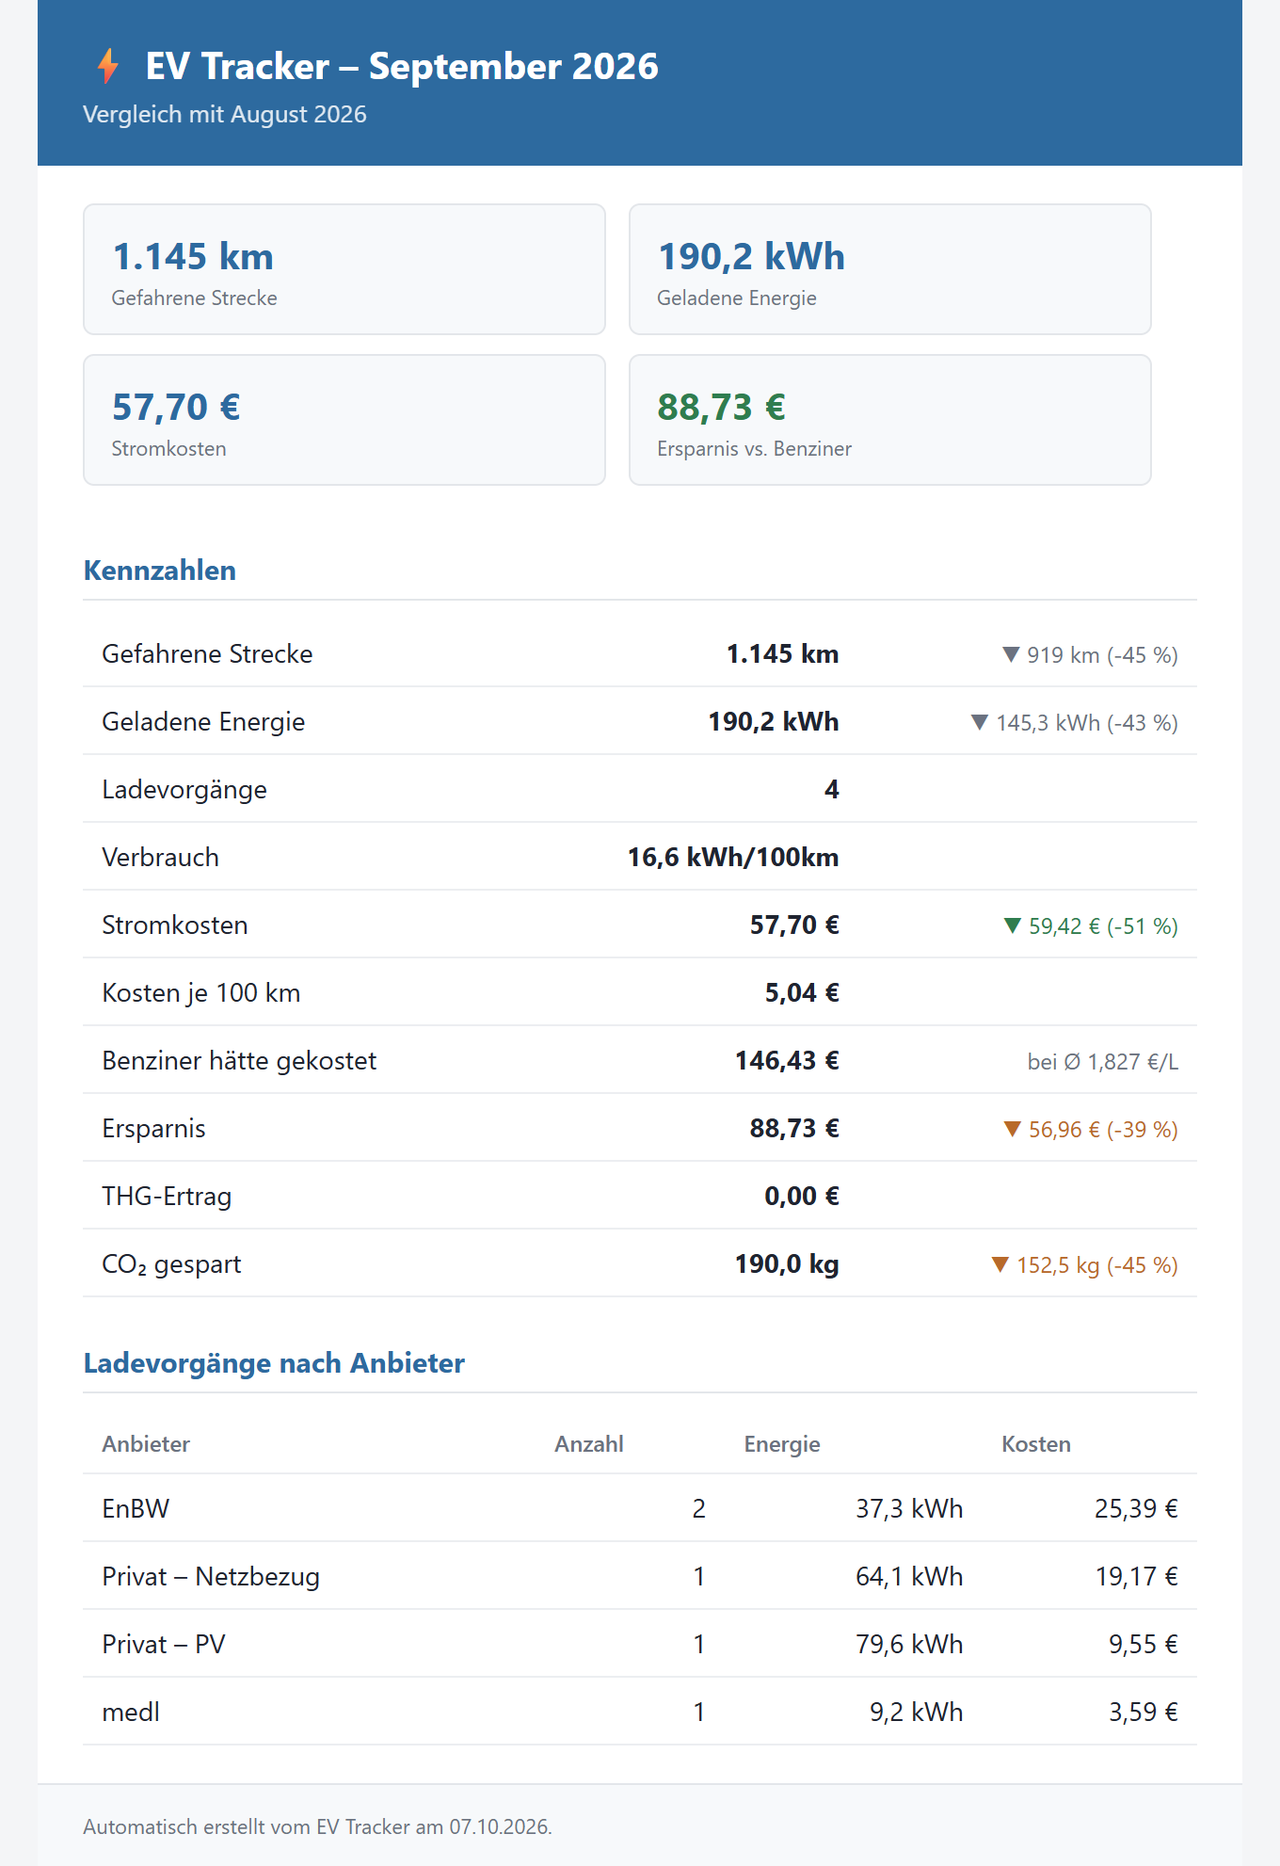
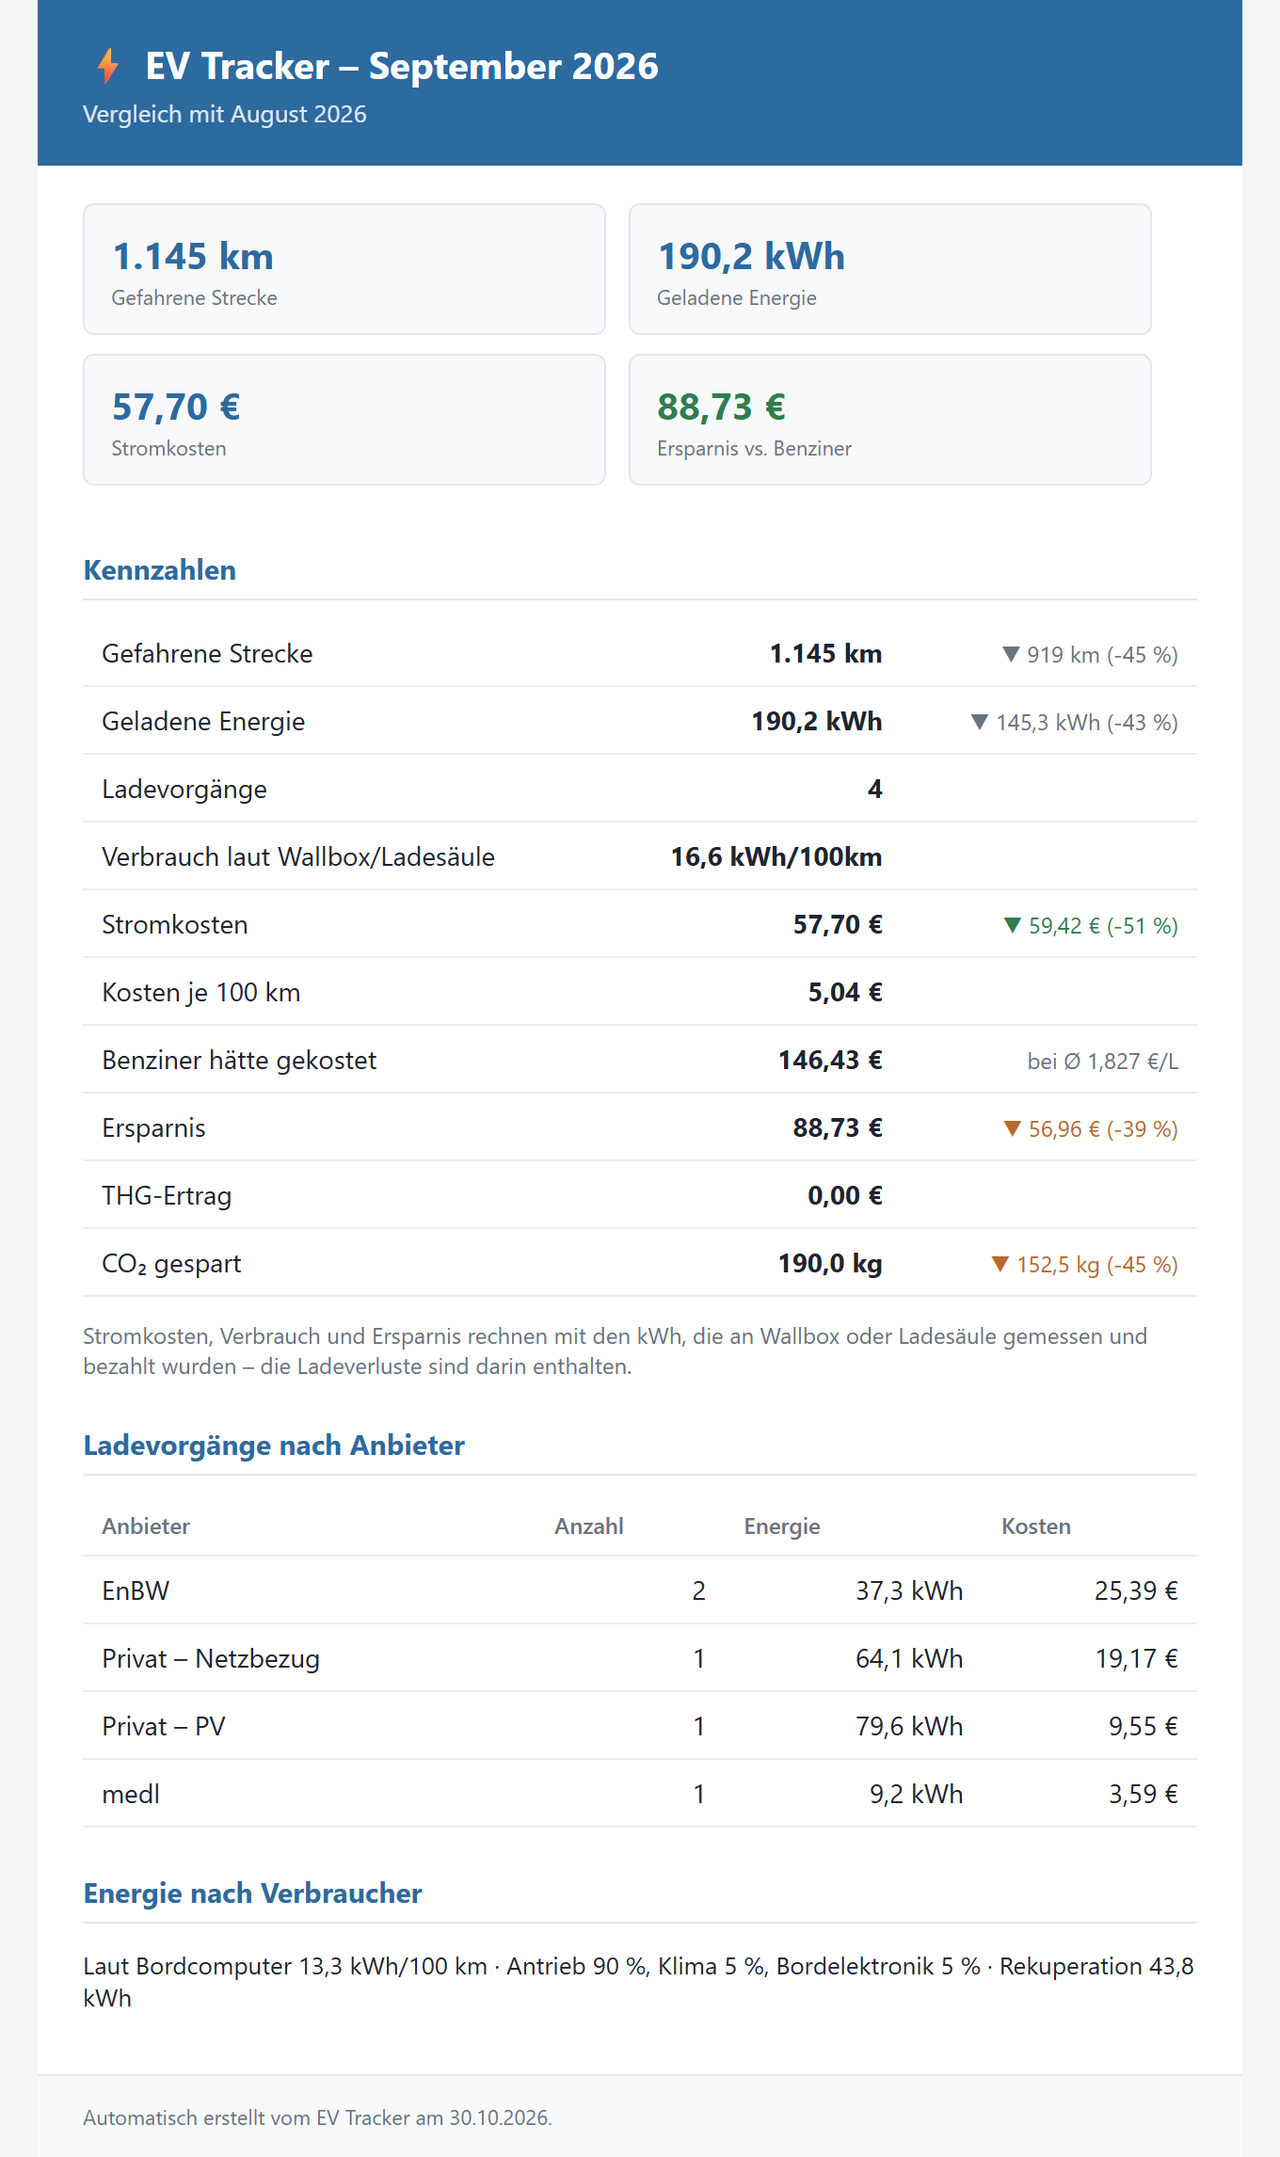
README und Screenshots fuer Version 3.9.0
- Neue Bilder: Akku, Energie, Profil, Fahrtenbuch
- Dashboard, Diagramme, Statistik, Verbrauch, Ladetarife und Monatsbericht neu aufgenommen
- Voraussetzungen und Erste Schritte um die Module ergaenzt, Aufbau um die neuen Dateien
- Demodaten mit wechselnden Ladefenstern und einem abwechslungsreichen Fahrtenbuch
- video/skripte/screenshots.py nimmt alle Bilder fuer die README neu auf

diff --git a/video/skripte/demo_daten.py b/video/skripte/demo_daten.py
@@ -105,9 +105,11 @@ with sqlite3.connect(DB) as conn:
             v = (14.6 if sommer else 18.8) + random.uniform(-1.0, 1.0)
             kwh = km * v / 100
             soc = kwh / 81.4 * 100
+            voll = random.choice((80.0, 80.0, 80.0, 90.0, 100.0))   # meist bis 80 % geladen
+            stunde = random.choice((17, 18, 18, 19, 21, 22))
             conn.execute("INSERT INTO akku_abschnitt (start, ende, soc_start, soc_ende, km_start, "
                          "km_ende, kwh, km, laufend) VALUES (?,?,?,?,?,?,?,?,0)",
-                         (f"{m}-{tag:02d}T07:00:00", f"{m}-{tag + 2:02d}T18:00:00", 90.0, 90.0 - soc,
+                         (f"{m}-{tag:02d}T07:00:00", f"{m}-{tag + 2:02d}T{stunde}:00:00", voll, voll - soc,
                           km_stand, km_stand + km, round(kwh, 2), round(km, 1)))
             km_stand += km
 
@@ -142,22 +144,54 @@ for d, km in tage_km.items():
                        "gesamt_wh": round(antrieb + klima + elektronik)}
 db.upsert_energie_tage(energie_tage)
 
-# Fahrtenbuch der letzten zwei Wochen: Arbeitsweg werktags, am Wochenende Ausfluege
-fahrten, km_stand = [], 30000.0
-for i in range(14):
-    tag = date(2026, 9, 16 + i)
-    wege = ([("07:35", "08:05", 21.4, "home", "Arbeit", "arbeitsweg"),
-             ("16:50", "17:25", 21.6, "Arbeit", "home", "arbeitsweg")] if tag.weekday() < 5
-            else [("10:10", "11:30", 74.2, "home", None, "privat"),
-                  ("17:40", "19:05", 75.0, None, "home", "privat")] if tag.weekday() == 5 else [])
-    for von, bis, km, start, ziel, kat in wege:
-        fahrten.append({"start": f"{tag}T{von}", "ende": f"{tag}T{bis}", "km_start": km_stand,
-                        "km_ende": km_stand + km, "km": km, "soc_start": 80.0,
-                        "soc_ende": round(80 - km * 0.21, 1), "kwh": round(km * 0.17, 2),
-                        "start_lat": 51.40, "start_lon": 6.85, "start_ort": start,
-                        "ziel_lat": 51.45, "ziel_lon": 7.01, "ziel_ort": ziel, "kategorie": kat})
-        km_stand += km
+# Fahrtenbuch fuer September: Arbeitsweg werktags, mal ein Einkauf oder Kundentermin,
+# am Wochenende Ausfluege. Standort vom Handy, Orte mit Namen wie Zonen in Home Assistant.
+from datetime import datetime, timedelta
+ORTE = {"home": (51.40, 6.85), "Arbeit": (51.45, 7.01), "Supermarkt": (51.41, 6.87),
+        "Kunde Dortmund": (51.51, 7.47), "Baldeneysee": (51.40, 7.03), "Eltern": (51.33, 6.57)}
+fahrten, km_stand, soc = [], 30000.0, 80.0
+
+
+def fahrt(tag, ab, minuten, km, start, ziel, kat, notiz=None):
+    global km_stand, soc
+    beginn = datetime.combine(tag, datetime.min.time()) + timedelta(minutes=ab)
+    kwh = km * random.uniform(14.5, 18.5) / 100
+    soc_ende = soc - kwh / 58.3 * 100
+    fahrten.append({"start": beginn.strftime("%Y-%m-%dT%H:%M"),
+                    "ende": (beginn + timedelta(minutes=minuten)).strftime("%Y-%m-%dT%H:%M"),
+                    "km_start": round(km_stand, 1), "km_ende": round(km_stand + km, 1), "km": km,
+                    "soc_start": round(soc), "soc_ende": round(soc_ende), "kwh": round(kwh, 2),
+                    "start_lat": ORTE[start][0], "start_lon": ORTE[start][1], "start_ort": start,
+                    "ziel_lat": ORTE[ziel][0], "ziel_lon": ORTE[ziel][1], "ziel_ort": ziel,
+                    "kategorie": kat, "notiz": notiz})
+    km_stand += km
+    soc = soc_ende
+
+
+for i in range(30):
+    tag = date(2026, 9, 1 + i)
+    if soc < 45:                                     # nachts an der Wallbox auf 80 %
+        soc = 80.0
+    wt = tag.weekday()
+    if wt < 5:
+        fahrt(tag, random.randint(445, 470), random.randint(27, 36), round(random.uniform(21.2, 21.8), 1),
+              "home", "Arbeit", "arbeitsweg")
+        if wt == 2 and i % 2 == 0:
+            fahrt(tag, 600, 52, 46.3, "Arbeit", "Kunde Dortmund", "dienstlich", "Kundentermin")
+            fahrt(tag, 750, 55, 46.8, "Kunde Dortmund", "Arbeit", "dienstlich", "Kundentermin")
+        fahrt(tag, random.randint(1000, 1030), random.randint(30, 42), round(random.uniform(21.3, 22.0), 1),
+              "Arbeit", "home", "arbeitsweg")
+        if wt in (1, 3) and random.random() < 0.6:
+            fahrt(tag, random.randint(1080, 1110), 9, 3.1, "home", "Supermarkt", "privat")
+            fahrt(tag, random.randint(1125, 1150), 10, 3.2, "Supermarkt", "home", "privat")
+    elif wt == 5:
+        fahrt(tag, random.randint(590, 630), 38, 24.6, "home", "Baldeneysee", "privat")
+        fahrt(tag, random.randint(960, 1020), 41, 25.1, "Baldeneysee", "home", "privat")
+    elif i % 2 == 0:
+        fahrt(tag, 690, 34, 31.8, "home", "Eltern", "privat")
+        fahrt(tag, 1050, 36, 32.0, "Eltern", "home", "privat")
 db.ersetze_fahrten("2026-09-01T00:00", fahrten)
+db.set_einstellung("ha_ev_ort", "device_tracker.handy")
 post("/einstellungen/module", akku="1", profil="1", energie="1", fahrtenbuch="1")
 
 import zeitraum

diff --git a/video/skripte/screenshots.py b/video/skripte/screenshots.py
@@ -1,0 +1,102 @@
+"""Screenshots fuer die README (docs/screenshot-*.png): 1280 px breit, doppelte Aufloesung, dunkel.
+
+Startet die App mit video/demo/ev_tracker.db (vorher demo_daten.py laufen lassen) und
+fotografiert sie mit Playwright (Microsoft Edge).
+Aufruf aus dem Repo-Ordner:  python video/skripte/screenshots.py [name ...]
+"""
+import os, subprocess, sys, time, urllib.request
+from playwright.sync_api import sync_playwright
+
+VIDEO = os.path.dirname(os.path.dirname(os.path.abspath(__file__)))
+REPO = os.path.dirname(VIDEO)
+OUT = os.path.join(REPO, "docs")
+PORT = 8768
+URL = f"http://127.0.0.1:{PORT}"
+
+# name, pfad, breite, anker (alles davor wird ausgeblendet), ende:
+#   ("vor", sel)   bis kurz vor dieses Element
+#   ("nach", sel)  bis zum Ende dieses Elements
+#   ("hoehe", px)  feste Hoehe
+#   None           ganze Seite
+AUFNAHMEN = [
+    ("dashboard", "/", 1280, None, ("nach", "#amortisation")),
+    ("diagramme", "/", 1280, None, None),
+    ("statistik", "/statistik?a=2025-S&b=2025-W", 1280, None,
+     ("vor", "h2:has-text('Verlauf Monat für Monat')")),
+    ("verbrauch", "/fahrten", 1280, "h2:has-text('Verbrauchsauswertung')", ("hoehe", 1370)),
+    ("ladetarife", "/ladetarife", 1280, "#rentabilitaet-1", ("hoehe", 1420)),
+    ("bericht", "/api/bericht/vorschau?typ=monat&jahr=2026&monat=9", 680, None, None),
+    ("akku", "/akku", 1280, None, ("vor", "h2:has-text('SoH-Werte von Hand')")),
+    ("energie", "/energie", 1280, None, ("nach", "table.vergleich")),
+    ("profil", "/profil", 1280, None, ("vor", "h2:has-text('Ladeprofil')")),
+    ("fahrtenbuch", "/fahrtenbuch?monat=2026-09", 1280, None, ("hoehe", 820)),
+]
+# Diagramme fuer "diagramme": diese vier aus dem Dashboard, die uebrigen ausgeblendet
+DIAGRAMME = ("CO2-Ersparnis", "Verbrauch kWh/100km", "Ladekosten nach Anbieter",
+             "Geladene kWh nach Stromquelle")
+
+AUSBLENDEN_VOR = """n => {
+  while (n && n.parentElement && n !== document.body) {
+    for (let s = n.previousElementSibling; s; s = s.previousElementSibling)
+      if (s.tagName !== 'NAV') s.style.display = 'none';
+    n = n.parentElement;
+  }
+  window.scrollTo(0, 0);
+}"""
+
+NUR_DIAGRAMME = """titel => {
+  for (const c of document.querySelectorAll('.chartgrid > .chart')) {
+    const t = (c.querySelector('h2, h3, .chart-titel, .titel') || c).innerText.split('\\n')[0].trim();
+    if (!titel.includes(t)) c.style.display = 'none';
+  }
+  window.dispatchEvent(new Event('resize'));
+}"""
+
+
+def main(namen):
+    env = {**os.environ, "EV_TRACKER_DB": os.path.join(VIDEO, "demo", "ev_tracker.db"),
+           "PYTHONIOENCODING": "utf-8"}
+    server = subprocess.Popen([sys.executable, "-m", "uvicorn", "webapp.app:app", "--port", str(PORT)],
+                              cwd=REPO, env=env, stdout=subprocess.DEVNULL, stderr=subprocess.DEVNULL)
+    try:
+        for _ in range(60):
+            try:
+                urllib.request.urlopen(URL + "/", timeout=2)
+                break
+            except Exception:
+                time.sleep(0.5)
+        with sync_playwright() as pw:
+            browser = pw.chromium.launch(channel="msedge")
+            for name, pfad, breite, anker, ende in AUFNAHMEN:
+                if namen and name not in namen:
+                    continue
+                seite = browser.new_page(viewport={"width": breite, "height": 900},
+                                         device_scale_factor=2, color_scheme="dark", locale="de-DE")
+                seite.goto(URL + pfad, wait_until="networkidle")
+                if anker:
+                    seite.locator(anker).first.evaluate(AUSBLENDEN_VOR)
+                if name == "diagramme":
+                    seite.evaluate(NUR_DIAGRAMME, list(DIAGRAMME))
+                seite.wait_for_timeout(1800)             # Diagramm-Animationen
+                datei = os.path.join(OUT, f"screenshot-{name}.png")
+                if name == "diagramme":
+                    seite.locator(".chartgrid").first.screenshot(path=datei)
+                elif ende is None:
+                    seite.screenshot(path=datei, full_page=True)
+                else:
+                    art, wert = ende
+                    if art == "hoehe":
+                        hoehe = wert
+                    else:
+                        b = seite.locator(wert).first.bounding_box()
+                        hoehe = b["y"] - 8 if art == "vor" else b["y"] + b["height"] + 16
+                    seite.screenshot(path=datei, full_page=True,
+                                     clip={"x": 0, "y": 0, "width": breite, "height": hoehe})
+                print(name, "->", os.path.relpath(datei, REPO))
+                seite.close()
+            browser.close()
+    finally:
+        server.terminate()
+
+
+main(sys.argv[1:])

diff --git a/README.md b/README.md
@@ -24,7 +24,7 @@ nicht auf ein bestimmtes Modell festgelegt. Oberfläche, Hilfe und Berichte gibt
 
 ## Einblicke
 
-*Alle Bilder mit Beispieldaten: 20 Monate, ein Elektroauto mit Wallbox und PV-Anlage.*
+*Alle Bilder mit Beispieldaten: knapp zwei Jahre, ein Elektroauto mit Wallbox und PV-Anlage.*
 
 <table>
 <tr>
@@ -40,9 +40,21 @@ nicht auf ein bestimmtes Modell festgelegt. Oberfläche, Hilfe und Berichte gibt
 <br><b>Ladetarife im Griff</b> – Abos mit Preisverlauf, Grundgebühr und Blockiergebühr, im Vergleich zum Heimstrom.</td>
 </tr>
 <tr>
+<td><a href="https://raw.githubusercontent.com/HasenbeinMH/ev-tracker-ha/main/docs/screenshot-akku.png"><img src="https://raw.githubusercontent.com/HasenbeinMH/ev-tracker-ha/main/docs/screenshot-akku.png" alt="Akku: Gesundheit, Kapazität, Reichweite"></a>
+<br><b>Akku im Blick</b> – Gesundheit (SoH) von Hand, per Sensor oder geschätzt, nutzbare Kapazität, Alterung bis zum Garantie-Ende und die Reichweite im eigenen Ladefenster, z. B. 80 → 20 %.</td>
+<td><a href="https://raw.githubusercontent.com/HasenbeinMH/ev-tracker-ha/main/docs/screenshot-energie.png"><img src="https://raw.githubusercontent.com/HasenbeinMH/ev-tracker-ha/main/docs/screenshot-energie.png" alt="Energie: Antrieb, Klima, Bordelektronik, Rekuperation"></a>
+<br><b>Wofür der Strom draufgeht</b> – Antrieb, Klima und Bordelektronik aus der Fahrstatistik des Autos, mit Rekuperation und den Kosten fürs Heizen und Kühlen.</td>
+</tr>
+<tr>
+<td><a href="https://raw.githubusercontent.com/HasenbeinMH/ev-tracker-ha/main/docs/screenshot-profil.png"><img src="https://raw.githubusercontent.com/HasenbeinMH/ev-tracker-ha/main/docs/screenshot-profil.png" alt="Profil: Nutzung, Fahrten, Laden"></a>
+<br><b>Wie du fährst und lädst</b> – km je Wochentag, Tage nach Strecke, Fahrten nach Länge und Uhrzeit, häufigste Ziele, Ladeprofil und Vergleich der Jahre.</td>
+<td><a href="https://raw.githubusercontent.com/HasenbeinMH/ev-tracker-ha/main/docs/screenshot-fahrtenbuch.png"><img src="https://raw.githubusercontent.com/HasenbeinMH/ev-tracker-ha/main/docs/screenshot-fahrtenbuch.png" alt="Fahrtenbuch: Fahrten mit Start und Ziel"></a>
+<br><b>Fahrtenbuch</b> – jede Fahrt mit Start, Ziel, km und Akku, automatisch aus Home Assistant. Kategorie und Notiz von Hand, Export als CSV.</td>
+</tr>
+<tr>
 <td><a href="https://raw.githubusercontent.com/HasenbeinMH/ev-tracker-ha/main/docs/screenshot-bericht.png"><img src="https://raw.githubusercontent.com/HasenbeinMH/ev-tracker-ha/main/docs/screenshot-bericht.png" alt="Monatsbericht per Mail" width="70%"></a>
 <br><b>Monatsbericht per Mail</b> – kommt automatisch, sobald der Monat vollständig ist.</td>
-<td valign="top"><br><b>Und außerdem:</b> Import aus Home Assistant oder einer Datenbank (InfluxDB 1.x/2.x/3.x, PostgreSQL/TimescaleDB, Prometheus/VictoriaMetrics), jede Nacht automatisch · Rechnungs-PDFs einlesen ([Musterrechnungen gesucht](#-rechnungsimport-musterrechnungen-gesucht)) · Ladeerkennung am Akkustand (meldet Ladungen unterwegs ohne Beleg) · THG-Quote und KFZ-Steuer · Amortisation des Mehrpreises mit Prognose · Instandhaltung und Versicherung · mehrere E-Autos (je Auto oder als Summe) · Oberfläche, Hilfe und Mail-Berichte auf Deutsch oder Englisch · Backup und Wiederherstellen</td>
+<td valign="top"><br><b>Und außerdem:</b> Import aus Home Assistant oder einer Datenbank (InfluxDB 1.x/2.x/3.x, PostgreSQL/TimescaleDB, Prometheus/VictoriaMetrics), jede Nacht automatisch · Rechnungs-PDFs einlesen ([Musterrechnungen gesucht](#-rechnungsimport-musterrechnungen-gesucht)) · Ladeerkennung am Akkustand (meldet Ladungen unterwegs ohne Beleg) · THG-Quote und KFZ-Steuer · Amortisation des Mehrpreises mit Prognose · Instandhaltung und Versicherung · Leasing-Kilometer mit Prognose · Zusatzauswertungen als Module ein- und ausschaltbar · mehrere E-Autos (je Auto oder als Summe) · Oberfläche, Hilfe und Mail-Berichte auf Deutsch oder Englisch · Backup und Wiederherstellen</td>
 </tr>
 </table>
 
@@ -61,6 +73,9 @@ vorher in Home Assistant eingerichtet sein:
 | 💶 *Kosten Netz ins Auto (optional)* | Tatsächliche Stromkosten bei **dynamischem Tarif** (Tibber, aWATTar, Octopus …) statt eines festen Tarifs | Fortlaufender €-Zähler: jede kWh aus dem Netz × Preis in diesem Moment. Die Vorlage [`ev_netzkosten.yaml`](https://github.com/HasenbeinMH/ev-tracker-ha/blob/main/vorlagen/homeassistant/ev_netzkosten.yaml) legt ihn aus dem Preissensor an. |
 | 📨 *Ladungen einzeln senden (optional)* | Heimladungen einzeln mit Datum statt als Monatssumme | Die Vorlage [`ev_ladung_senden.yaml`](https://github.com/HasenbeinMH/ev-tracker-ha/blob/main/vorlagen/homeassistant/ev_ladung_senden.yaml) – oder der [Blueprint](https://github.com/HasenbeinMH/ev-tracker-ha/blob/main/vorlagen/blueprints/README.md) – schickt am Ladeende kWh und Kosten an den EV Tracker; Adresse und Token stehen in den Einstellungen. |
 | 🔋 *Batteriestand (optional)* | Ladeerkennung und Verbrauch aus dem Akkustand | Ebenfalls über die Fahrzeug-Integration |
+| 📊 *Tägliche Fahrstatistik (optional)* | Modul Energie: Aufteilung auf Antrieb, Klima, Bordelektronik, Rekuperation | Z. B. `sensor.…_tagliche_fahrstatistik` der Kia-/Hyundai-Integration |
+| 📍 *Standort (optional)* | Modul Fahrtenbuch: Start und Ziel jeder Fahrt | `device_tracker` des Autos oder – wenn immer dieselbe Person fährt – des Handys (genauer). Der EV Tracker schreibt den Standort selbst mit, der Recorder muss ihn nicht aufnehmen. |
+| 🩺 *Reichweite, Akku-Gesundheit (optional)* | Modul Akku: Reichweite laut Auto, gemessener SoH | Ohne SoH-Sensor schätzt der EV Tracker den Wert oder nimmt einen von Hand eingetragenen (Werkstatt, OBD-App) |
 
 Die Entity-IDs werden anschließend in den **Einstellungen** des EV Trackers eingetragen.
 
@@ -100,6 +115,9 @@ Grundeinstellungen und zeigt bei jedem Schritt, ob er schon erledigt ist.
    **Erst speichern, dann testen:** Verbindungstest und Suche nutzen die gespeicherten Zugangsdaten.
 5. **Stromtarif** anlegen, dann unter **HA Import** die vergangenen Monate holen.
 6. **Ladungen unterwegs** unter Laden bzw. Rechnungen ergänzen, THG-Prämien unter Steuer & THG.
+7. **Module** (optional) – unter **Einstellungen → Module** die Zusatzauswertungen einschalten:
+   Akku, Profil, Leasing, Energie und Fahrtenbuch. Die Sensoren dafür erscheinen dann unter
+   **Einstellungen → Sensoren**. Ausgeschaltete Module verschwinden aus Menü und Dashboard, ihre Daten bleiben erhalten.
 
 Danach holt der nächtliche Abruf km, kWh und Kraftstoffpreis jeden Monat von selbst.
 
@@ -247,6 +265,9 @@ suchen, wenn unklar ist, wo genau sich beide Wege unterscheiden.
 | `webapp/` | FastAPI-Anwendung, Templates, statische Dateien, Dockerfile |
 | `charts.py` | Chart-Definitionen (Apache ECharts), werden im Browser gezeichnet |
 | `berechnung.py` | Alle Kennzahlen und Ersparnis-Berechnungen |
+| `zeitraum.py`, `akkuverbrauch.py` | Kennzahlen je Zeitraum (Dashboard, Statistik, Berichte), Verbrauch aus dem Akkustand |
+| `module.py` | Verzeichnis der Module (Seiten, Kacheln, Sensoren) und ihr Schalter |
+| `akku.py`, `profil.py`, `leasing.py`, `energie.py`, `fahrtenbuch.py` | Die Module: Akku-Gesundheit und Reichweite, Nutzungsprofil, Leasing-Kilometer, Energie-Aufteilung, Fahrterkennung mit Standort-Mitschnitt |
 | `database.py` | SQLite-Zugriff und Schema |
 | `ha_client.py` | Home Assistant (REST, WebSocket, Supervisor) |
 | `datenquellen.py` | Datenbanken: InfluxDB 1.x/2.x/3.x, PostgreSQL/TimescaleDB (LTSS), Prometheus/VictoriaMetrics |
@@ -267,4 +288,5 @@ suchen, wenn unklar ist, wo genau sich beide Wege unterscheiden.
 | `tests/i18n_test.py` | Sprachumschaltung: jeder Text übersetzt, alle Seiten in Deutsch und Englisch, JavaScript gültig, Deutsch unverändert, keine deutschen Wörter in Englisch, Bericht auf Englisch (braucht Node.js): `python tests/i18n_test.py` |
 | `tests/oberflaeche_test.py` | Alle Seiten im echten Browser (Playwright/Chromium), JS-Fehler, Formular, Zustand „Nur lesbar“; optional Screenshots: `python tests/oberflaeche_test.py [ordner]` |
 | `tests/datenquellen_docker_test.py` | Dieselben Anbindungen gegen echte Server in Docker (InfluxDB 1.8/2.7, TimescaleDB, VictoriaMetrics, Prometheus): `python tests/datenquellen_docker_test.py` |
+| `video/skripte/` | Demodaten (`demo_daten.py`), Screenshots für diese Seite (`screenshots.py`, braucht Playwright und Microsoft Edge) und Aufnahmen fürs Video |
 | `version.py` | Versionsnummer und Änderungslog |
